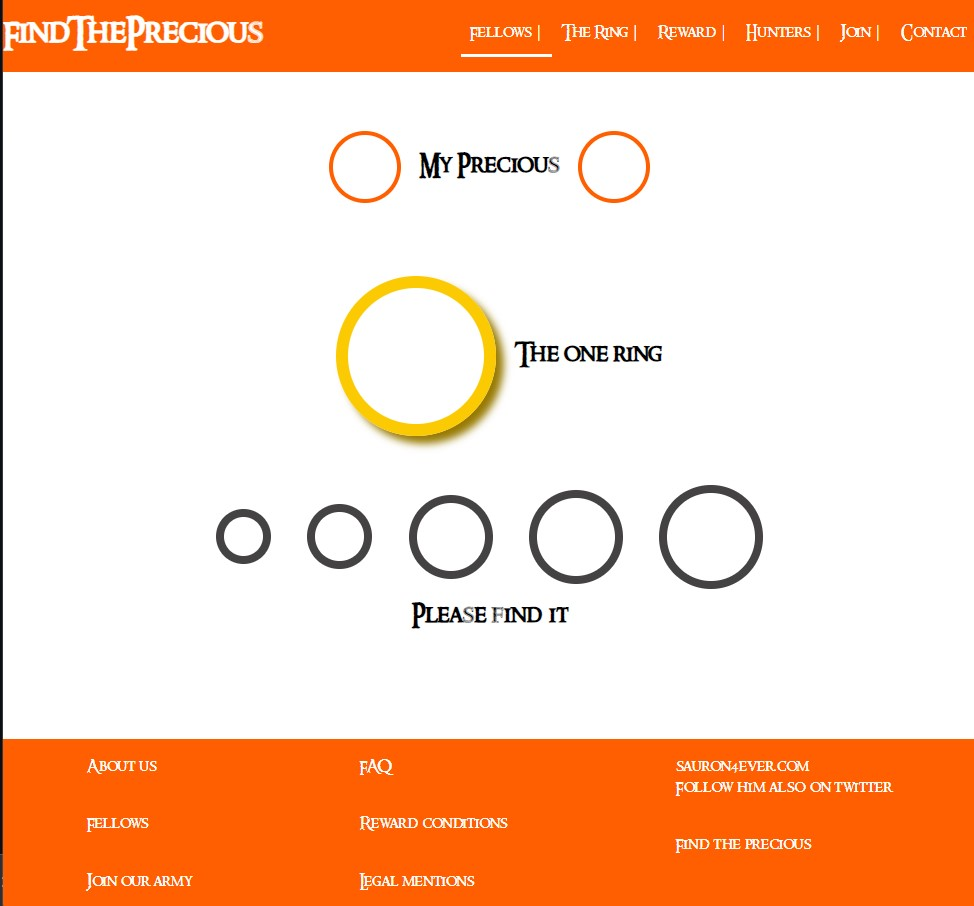
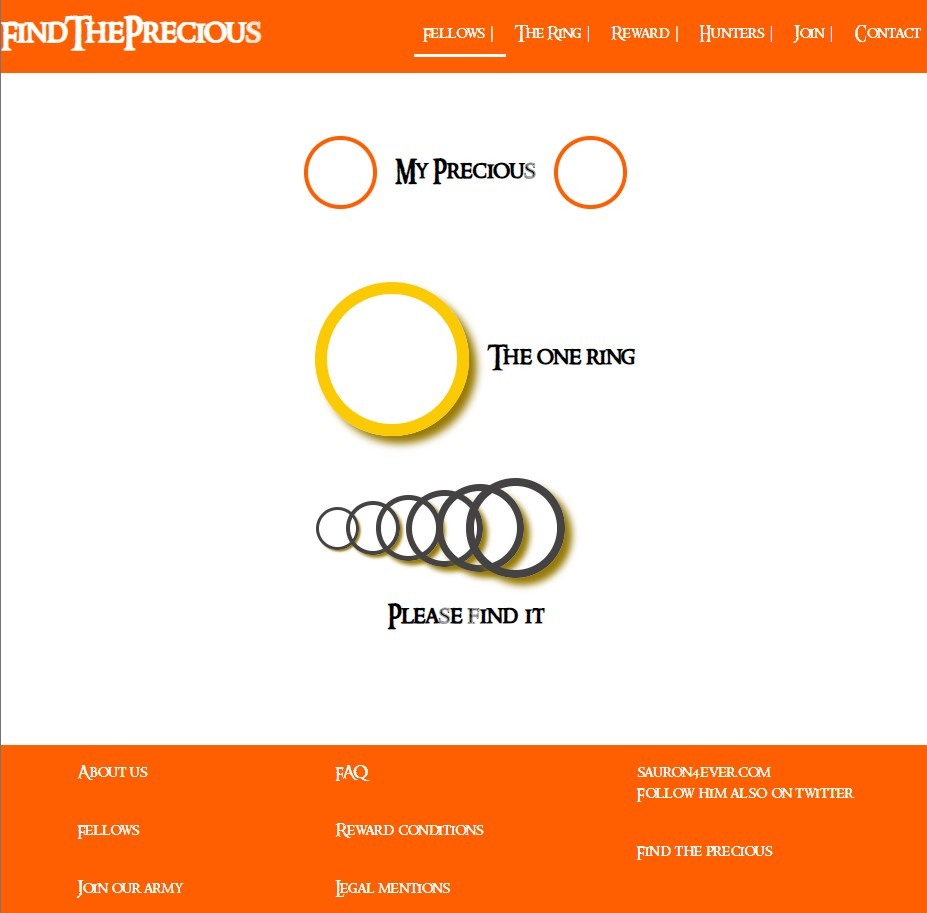
rings imbriqué

diff --git a/src/app/precious/precious.component.scss b/src/app/precious/precious.component.scss
@@ -1,11 +1,13 @@
 
     @import '../../styles.scss';
+
   @mixin ringsDesign ($width, $height, $largeur, $color){
     width: $width ;
     height: $height;
     border: $color $largeur solid;
     border-radius: 50%;
   }
+
 h2 {
   text-align: center;
 }
@@ -36,8 +38,7 @@ header {
 }
 
 .firstTitle,
-.secondTitle,
-.loopRings {
+.secondTitle, .loopRings {
   display: flex;
   padding: 2vh;
   align-items: center;
@@ -55,18 +56,21 @@ header {
   @include ringsDesign (14vw,14vw, 12px, $gold-color);
   box-shadow : 8px 8px 8px darken($gold-color, 20); 
 }
-
-.sixRings{
-  justify-content: center;
-}
 .loopRings{
-  height: 10vh;
+  padding-top: 6vh;
+  position: relative;
 }
 
 @for $i from 1 through 6 {
   .sixRings#{$i} {
-    @include ringsDesign ( 3vw+ $i,3vw+ $i, 8px, #444343);
+    @include ringsDesign ( 3vw+ $i,3vw+ $i, 2px+ $i, #444343);
+    box-shadow : 1px+ $i 1px+ $i 1px+ $i darken($gold-color, 20);
+    left: -90px + ($i - 3) * 30;
+    position: absolute;;
   }
+}
+.lastH2{
+  padding-top: 6vh;
 }
 
 footer {

diff --git a/src/app/precious/precious.component.html b/src/app/precious/precious.component.html
@@ -29,7 +29,7 @@
       <div class="sixRings5 Ring"></div>
       <div class="sixRings6 Ring"></div>
     </div>
-    <h2>Please find it</h2>
+    <h2 class="lastH2">Please find it</h2>
 
 <footer>
   <div class="inFooter">
